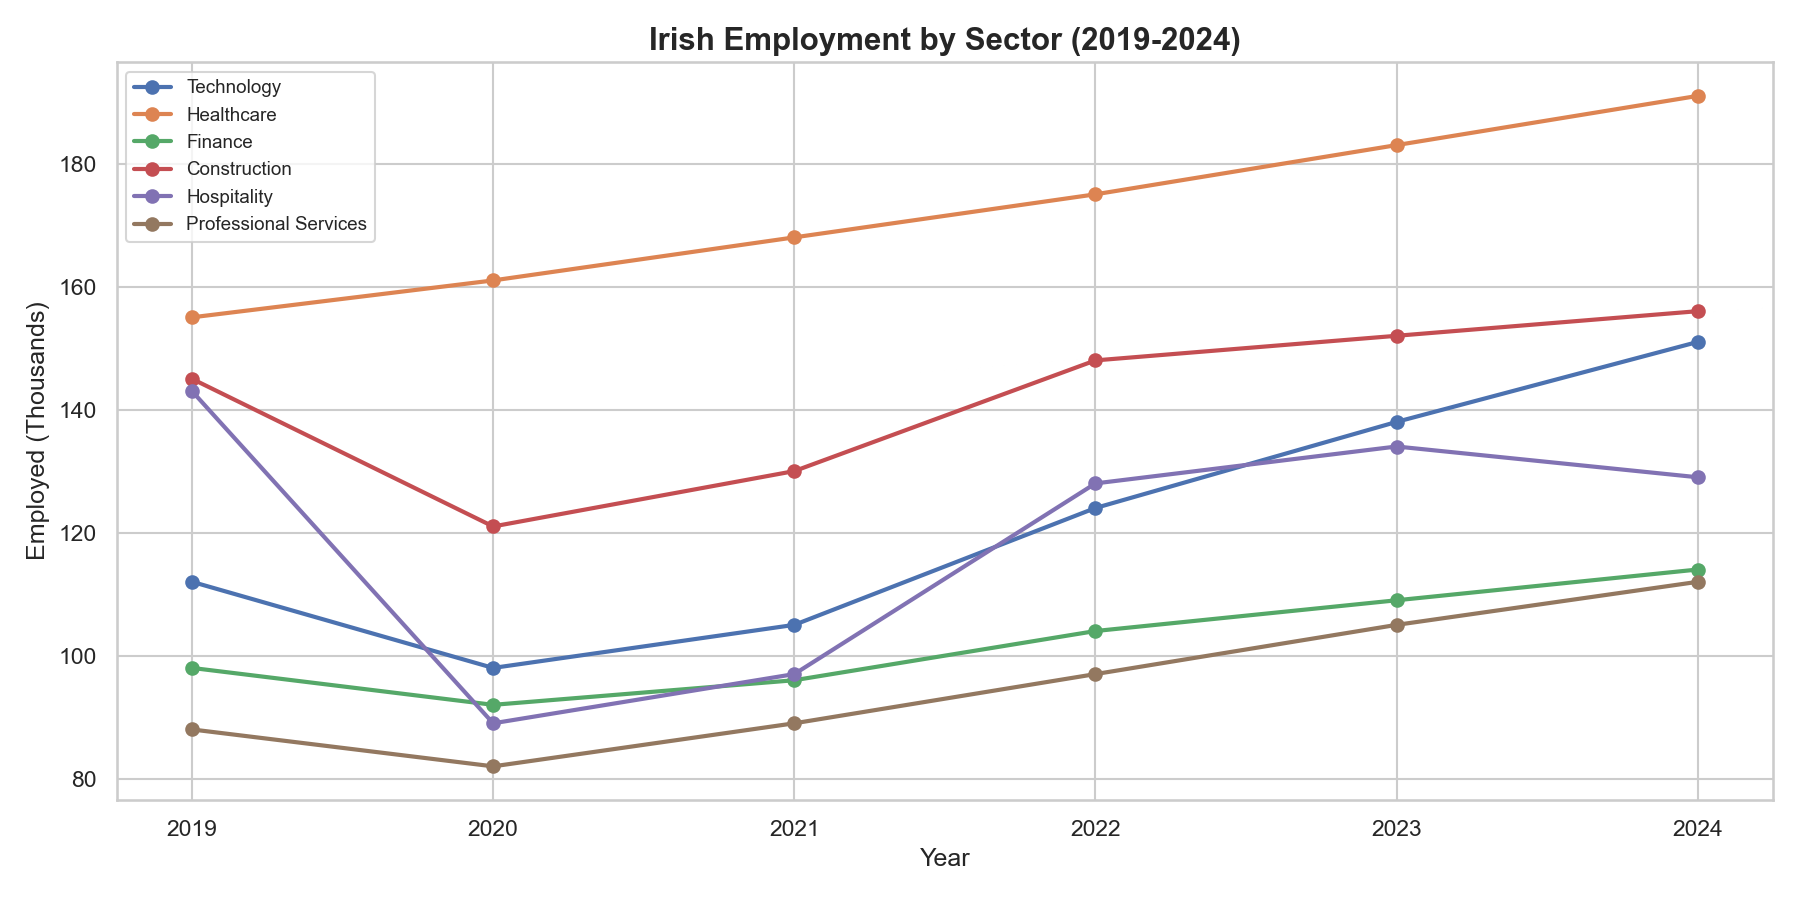
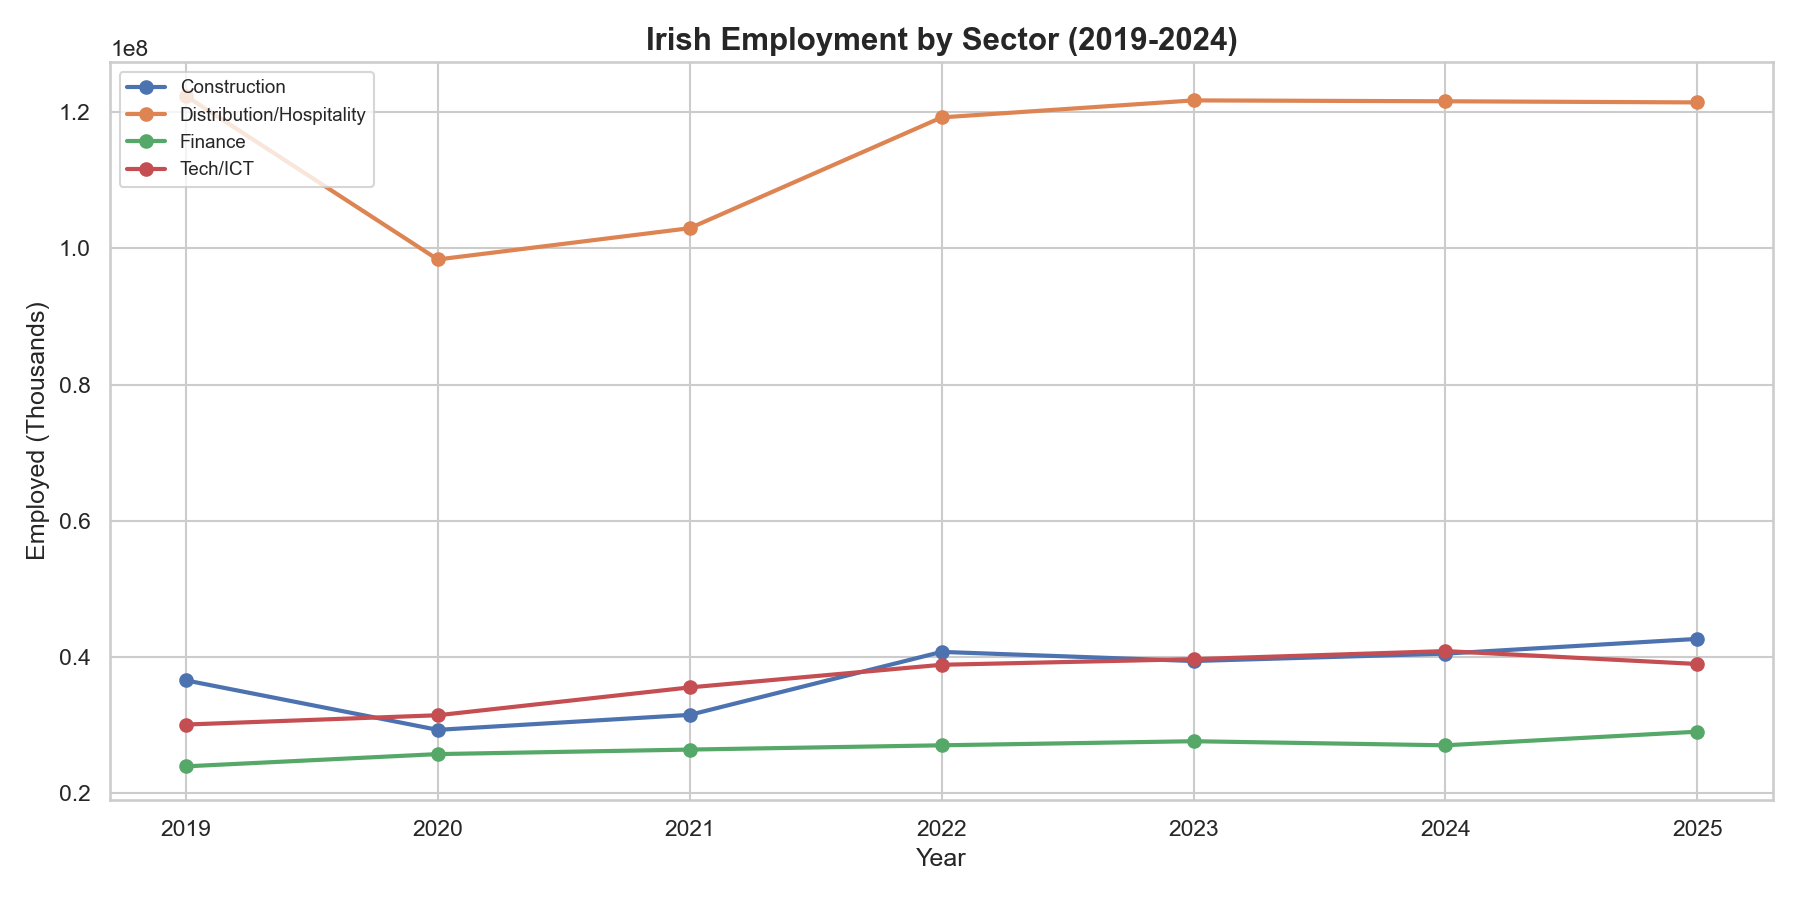
Updated analysis with real CSO Ireland data

diff --git a/analysis.py b/analysis.py
@@ -6,90 +6,100 @@ import os
 
 os.makedirs("output", exist_ok=True)
 
-# Irish employment data based on CSO statistics 2019-2024
-data = {
-    "Year": [2019,2020,2021,2022,2023,2024]*6,
-    "Sector": (["Technology"]*6 + ["Healthcare"]*6 + ["Finance"]*6 +
-               ["Construction"]*6 + ["Hospitality"]*6 + ["Professional Services"]*6),
-    "Employed_Thousands": [
-        112,98,105,124,138,151,
-        155,161,168,175,183,191,
-        98,92,96,104,109,114,
-        145,121,130,148,152,156,
-        143,89,97,128,134,129,
-        88,82,89,97,105,112
-    ],
-    "Avg_Salary_EUR": [
-        58000,57000,60000,65000,70000,74000,
-        38000,39000,40000,42000,44000,46000,
-        52000,51000,53000,56000,59000,62000,
-        36000,34000,35000,38000,40000,41000,
-        24000,20000,21000,25000,26000,25000,
-        45000,44000,46000,50000,53000,56000
-    ]
+# Load real CSO data
+df = pd.read_csv("/Users/apple/Desktop/My Folder/WorkSpace/NAQ09.20260331T160304.csv")
+
+# Clean and filter
+df = df[df["Employment Status"] == "All persons in employment"]
+df["Year"] = df["Quarter"].str[:4].astype(int)
+df = df[df["Year"] >= 2019]
+df["VALUE"] = pd.to_numeric(df["VALUE"], errors="coerce")
+
+# Focus on key sectors
+sectors = [
+    "Information and Communication",
+    "Human Health and Social Work Activities",
+    "Financial and Insurance Activities",
+    "Construction",
+    "Distribution, Transport, Hotels and Restaurants",
+    "Professional, Scientific and Technical Activities"
+]
+df = df[df["NACE Rev. 2 Sector"].isin(sectors)]
+
+# Annual average
+annual = df.groupby(["Year", "NACE Rev. 2 Sector"])["VALUE"].mean().reset_index()
+annual.columns = ["Year", "Sector", "Employed_Thousands"]
+
+# Short sector names for charts
+short_names = {
+    "Information and Communication": "Tech/ICT",
+    "Human Health and Social Work Activities": "Healthcare",
+    "Financial and Insurance Activities": "Finance",
+    "Construction": "Construction",
+    "Distribution, Transport, Hotels and Restaurants": "Distribution/Hospitality",
+    "Professional, Scientific and Technical Activities": "Professional Services"
 }
+annual["Sector"] = annual["Sector"].map(short_names)
 
-unemployment = {
-    "Year": [2019,2020,2021,2022,2023,2024],
-    "Unemployment_Rate": [5.0,5.9,6.2,4.3,4.3,4.4]
-}
-
-df = pd.DataFrame(data)
-unemp = pd.DataFrame(unemployment)
-
-df.to_csv("output/ireland_employment_clean.csv", index=False)
-unemp.to_csv("output/ireland_unemployment_clean.csv", index=False)
+# Save clean CSV
+annual.to_csv("output/ireland_employment_clean.csv", index=False)
 
 sns.set_theme(style="whitegrid")
 palette = sns.color_palette("deep", 6)
 
 # Chart 1: Employment by sector over time
 fig, ax = plt.subplots(figsize=(12,6))
-for i, sector in enumerate(df["Sector"].unique()):
-    s = df[df["Sector"]==sector]
+for i, sector in enumerate(annual["Sector"].unique()):
+    s = annual[annual["Sector"]==sector]
     ax.plot(s["Year"], s["Employed_Thousands"], marker="o", label=sector, color=palette[i], linewidth=2)
 ax.set_title("Irish Employment by Sector (2019-2024)", fontsize=15, fontweight="bold")
-ax.set_xlabel("Year"); ax.set_ylabel("Employed (Thousands)")
+ax.set_xlabel("Year")
+ax.set_ylabel("Employed (Thousands)")
 ax.legend(loc="upper left", fontsize=9)
 plt.tight_layout()
 plt.savefig("output/chart1_employment_by_sector.png", dpi=150)
 plt.close()
 
-# Chart 2: Unemployment rate
-fig, ax = plt.subplots(figsize=(10,5))
-ax.bar(unemp["Year"], unemp["Unemployment_Rate"], color=palette[0], width=0.5)
-ax.set_title("Irish Unemployment Rate (2019-2024)", fontsize=15, fontweight="bold")
-ax.set_xlabel("Year"); ax.set_ylabel("Unemployment Rate (%)")
-ax.set_ylim(0,8)
-for i, v in enumerate(unemp["Unemployment_Rate"]):
-    ax.text(unemp["Year"][i], v+0.1, f"{v}%", ha="center", fontsize=10)
-plt.tight_layout()
-plt.savefig("output/chart2_unemployment_rate.png", dpi=150)
-plt.close()
-
-# Chart 3: Average salary comparison 2024
-df_2024 = df[df["Year"]==2024].sort_values("Avg_Salary_EUR", ascending=True)
+# Chart 2: 2024 employment comparison
+latest = annual[annual["Year"]==2024].sort_values("Employed_Thousands", ascending=True)
 fig, ax = plt.subplots(figsize=(10,6))
-bars = ax.barh(df_2024["Sector"], df_2024["Avg_Salary_EUR"], color=palette)
-ax.set_title("Average Salary by Sector in Ireland (2024)", fontsize=15, fontweight="bold")
-ax.set_xlabel("Average Annual Salary (EUR)")
-ax.xaxis.set_major_formatter(mticker.FuncFormatter(lambda x, _: f"€{int(x):,}"))
-for bar, val in zip(bars, df_2024["Avg_Salary_EUR"]):
-    ax.text(val+500, bar.get_y()+bar.get_height()/2, f"€{val:,}", va="center", fontsize=9)
+bars = ax.barh(latest["Sector"], latest["Employed_Thousands"], color=palette)
+ax.set_title("Employment by Sector in Ireland (2024)", fontsize=15, fontweight="bold")
+ax.set_xlabel("Employed (Thousands)")
+for bar, val in zip(bars, latest["Employed_Thousands"]):
+    ax.text(val+1, bar.get_y()+bar.get_height()/2, f"{val:.1f}k", va="center", fontsize=9)
 plt.tight_layout()
-plt.savefig("output/chart3_avg_salary_2024.png", dpi=150)
+plt.savefig("output/chart2_sector_comparison_2024.png", dpi=150)
 plt.close()
 
-# Chart 4: Tech sector growth
-tech = df[df["Sector"]=="Technology"].copy()
-tech["Growth_%"] = tech["Employed_Thousands"].pct_change()*100
+# Chart 3: ICT sector growth
+tech = annual[annual["Sector"]=="Tech/ICT"].copy()
 fig, ax = plt.subplots(figsize=(10,5))
 ax.fill_between(tech["Year"], tech["Employed_Thousands"], alpha=0.3, color=palette[0])
 ax.plot(tech["Year"], tech["Employed_Thousands"], marker="o", color=palette[0], linewidth=2)
-ax.set_title("Technology Sector Employment Growth in Ireland (2019-2024)", fontsize=14, fontweight="bold")
-ax.set_xlabel("Year"); ax.set_ylabel("Employed (Thousands)")
+ax.set_title("Tech/ICT Sector Employment Growth in Ireland (2019-2024)", fontsize=14, fontweight="bold")
+ax.set_xlabel("Year")
+ax.set_ylabel("Employed (Thousands)")
 plt.tight_layout()
-plt.savefig("output/chart4_tech_growth.png", dpi=150)
+plt.savefig("output/chart3_tech_growth.png", dpi=150)
 plt.close()
 
-print("Done. Charts saved in output/ folder.")
+# Chart 4: % growth since 2019
+base = annual[annual["Year"]==2019][["Sector","Employed_Thousands"]].set_index("Sector")
+latest2 = annual[annual["Year"]==2024][["Sector","Employed_Thousands"]].set_index("Sector")
+growth = ((latest2 - base) / base * 100).reset_index()
+growth.columns = ["Sector", "Growth_%"]
+growth = growth.sort_values("Growth_%", ascending=True)
+fig, ax = plt.subplots(figsize=(10,6))
+colors = [palette[0] if x >= 0 else palette[3] for x in growth["Growth_%"]]
+ax.barh(growth["Sector"], growth["Growth_%"], color=colors)
+ax.set_title("Employment Growth by Sector: 2019 vs 2024 (%)", fontsize=14, fontweight="bold")
+ax.set_xlabel("Growth (%)")
+ax.axvline(0, color="black", linewidth=0.8)
+for i, val in enumerate(growth["Growth_%"]):
+    ax.text(val+0.3, i, f"{val:.1f}%", va="center", fontsize=9)
+plt.tight_layout()
+plt.savefig("output/chart4_growth_comparison.png", dpi=150)
+plt.close()
+
+print("Done. Real CSO data analysed. Charts saved in output/ folder.")
